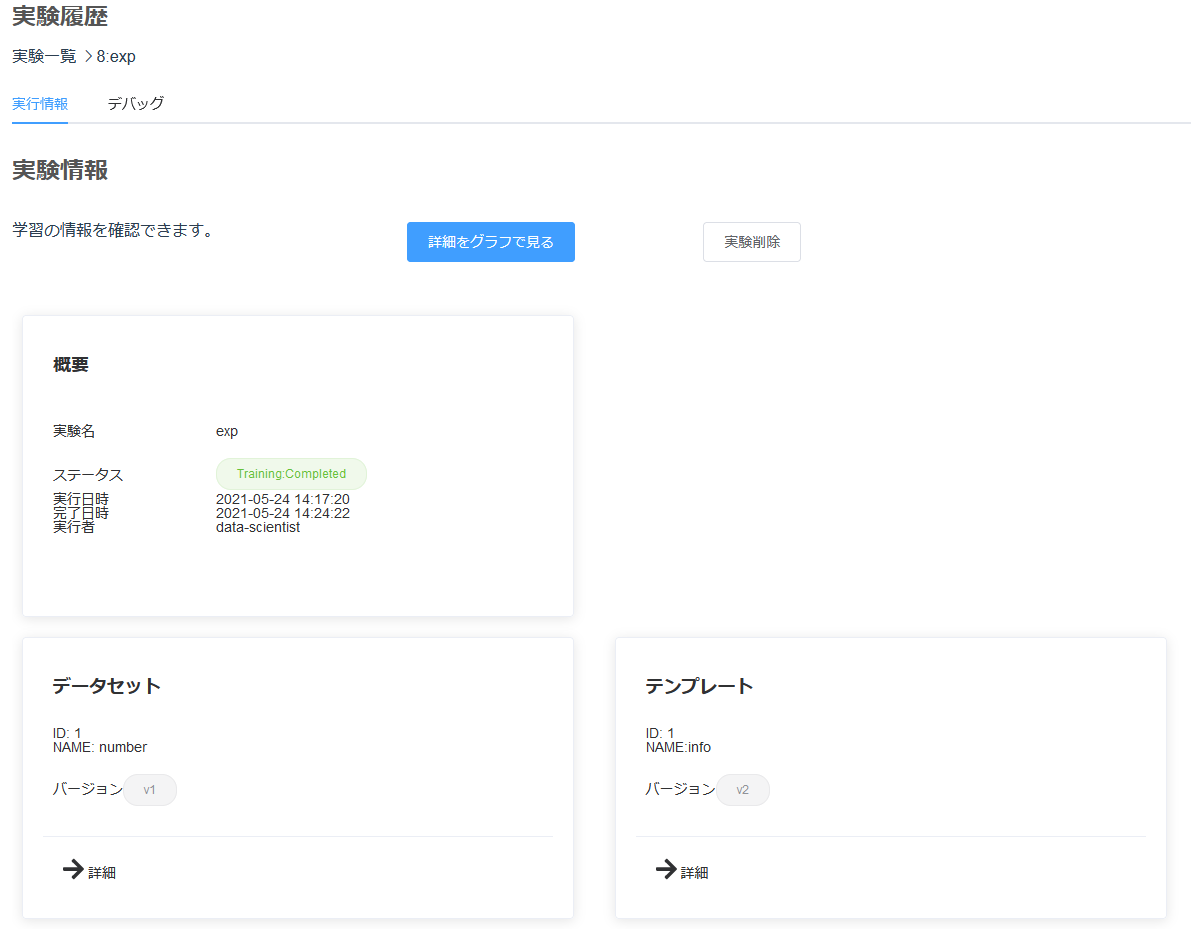
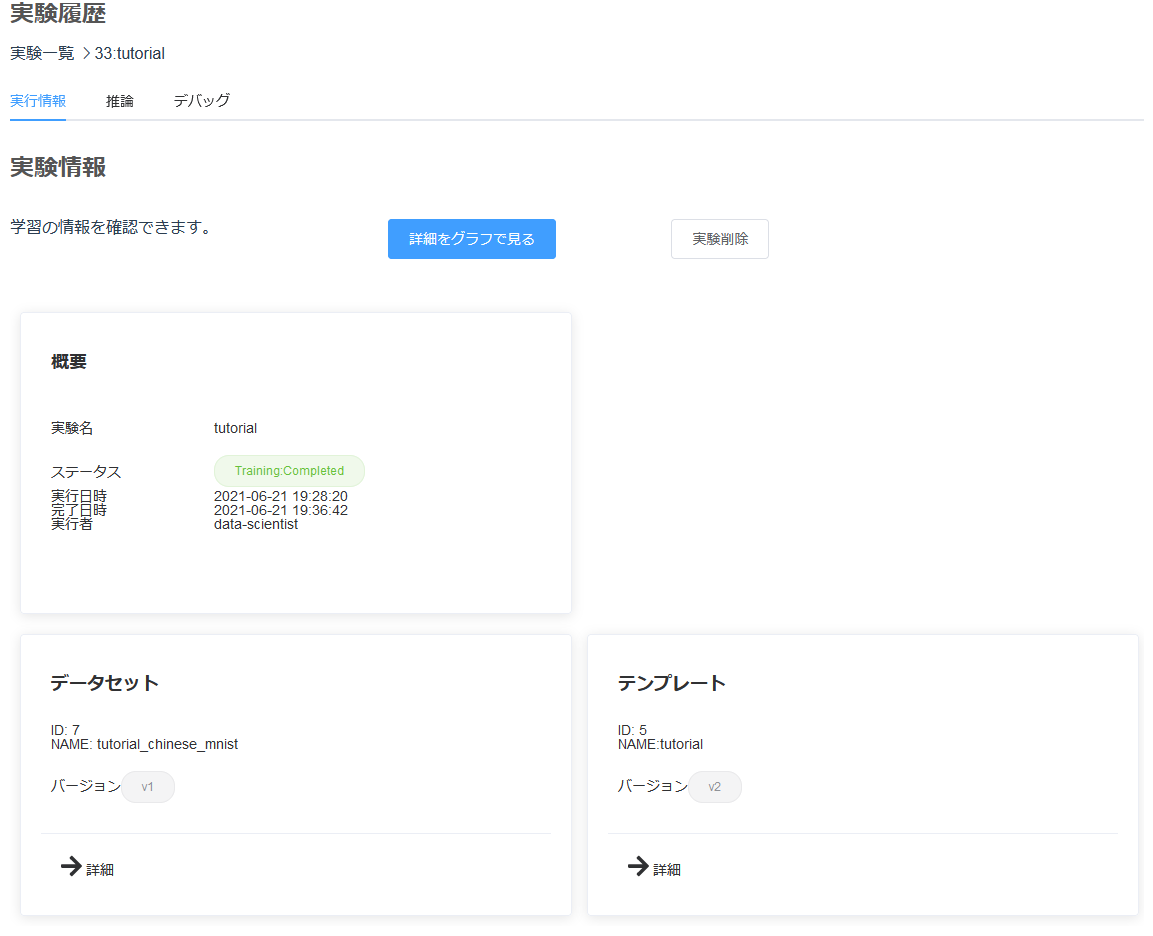
推論の説明追加

diff --git a/aquarium_intro.md b/aquarium_intro.md
@@ -40,7 +40,7 @@ AI及びIT一般の専門的知識を持っています。
 
 * AI開発者がテンプレートを準備する
 
-テンプレートとは、学習・評価時に実行するコマンド、そのコマンドを格納したgitリポジトリ、そのコマンドを実行するコンテナイメージを格納したdockerリポジトリ、などの定義をまとめたものです。
+テンプレートとは、学習・推論時に実行するコマンド、そのコマンドを格納したgitリポジトリ、そのコマンドを実行するコンテナイメージを格納したdockerリポジトリ、などの定義をまとめたものです。
 AI開発者は複数のテンプレートを定義できます。
 
 * データ保持者がデータセットを準備する
@@ -50,8 +50,8 @@ AI開発者は複数のテンプレートを定義できます。
 
 * データ保持者が実験を行い、結果を確認する
 
-データ保持者はテンプレートとデータセットを1つずつ選択し、学習を行って結果を確認します。
-このテンプレート、データセット、学習実行の組をアクアリウムでは実験と呼びます。
+データ保持者はテンプレートとデータセットを1つずつ選択し、学習・推論を行って結果を確認します。
+このテンプレート、データセット、学習推論の組をアクアリウムでは実験と呼びます。
 
 ## テンプレート・データセットのバージョニング
 
